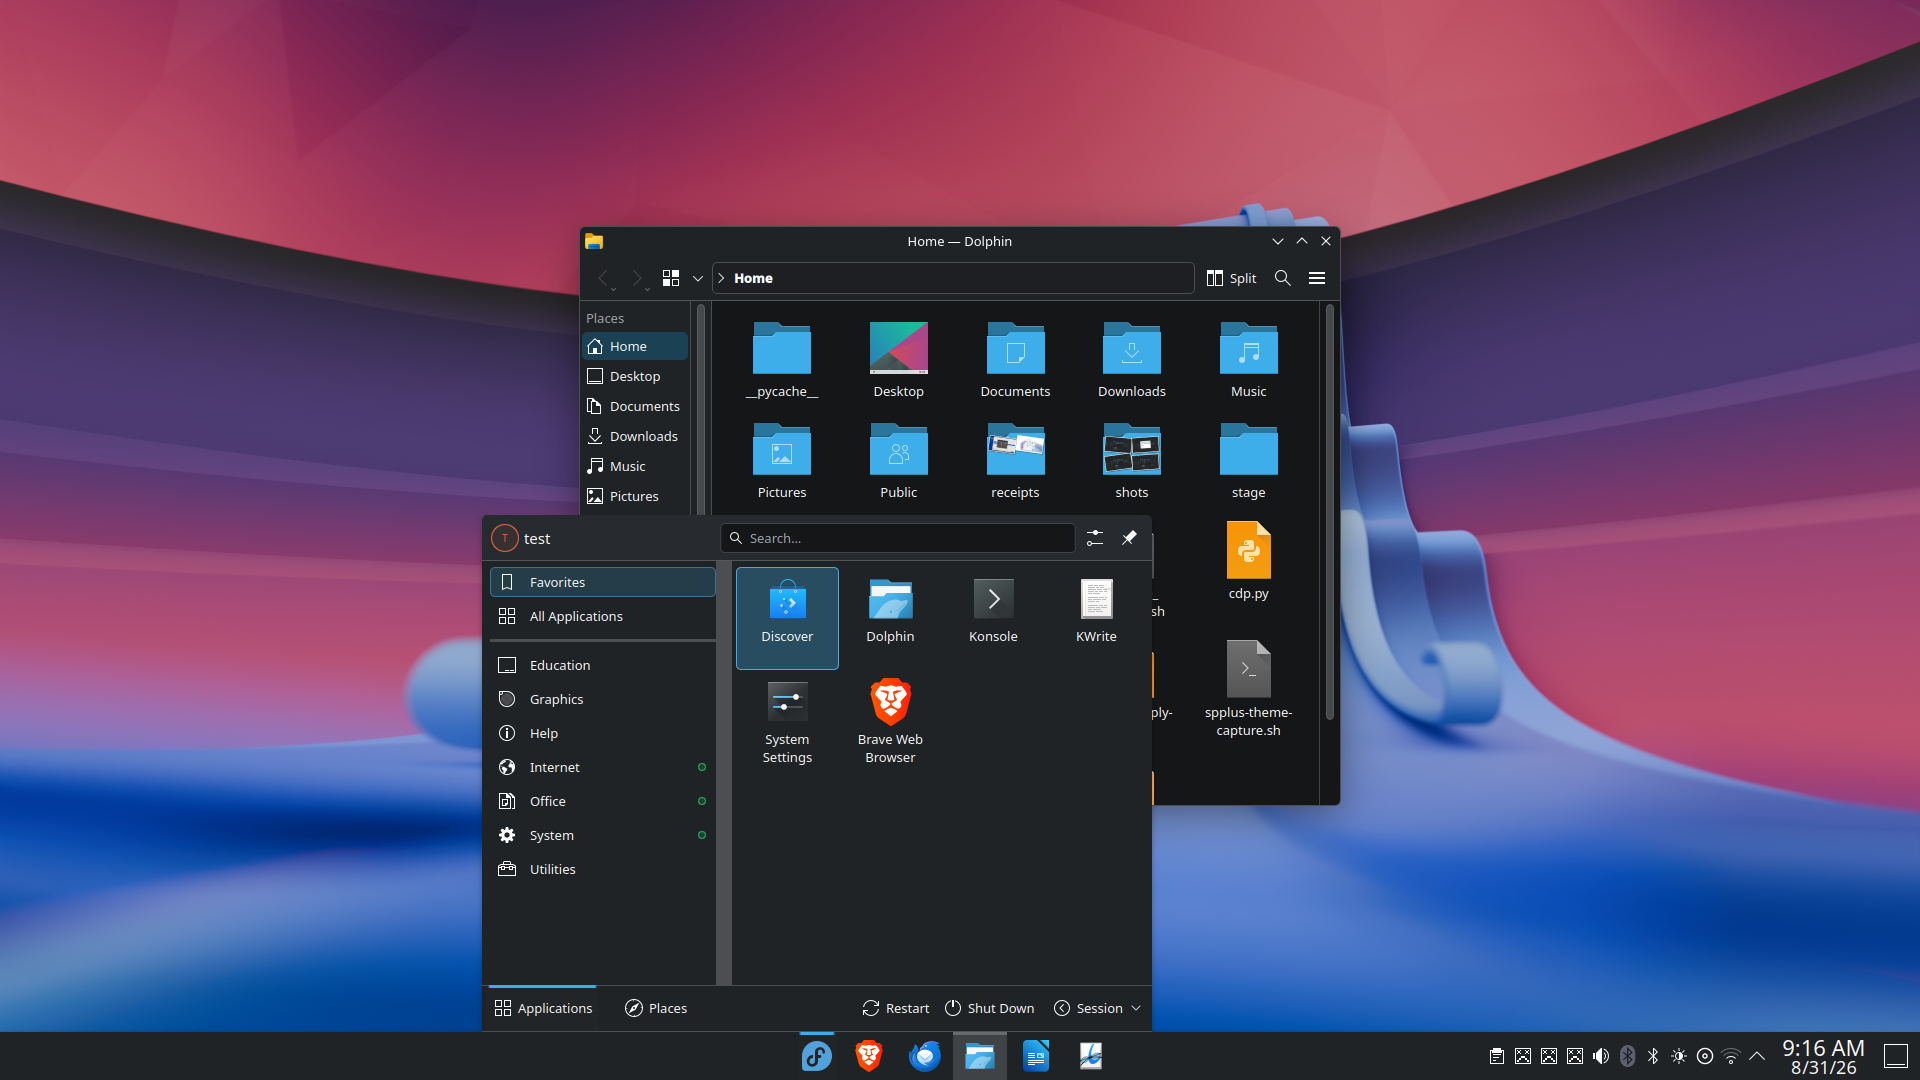
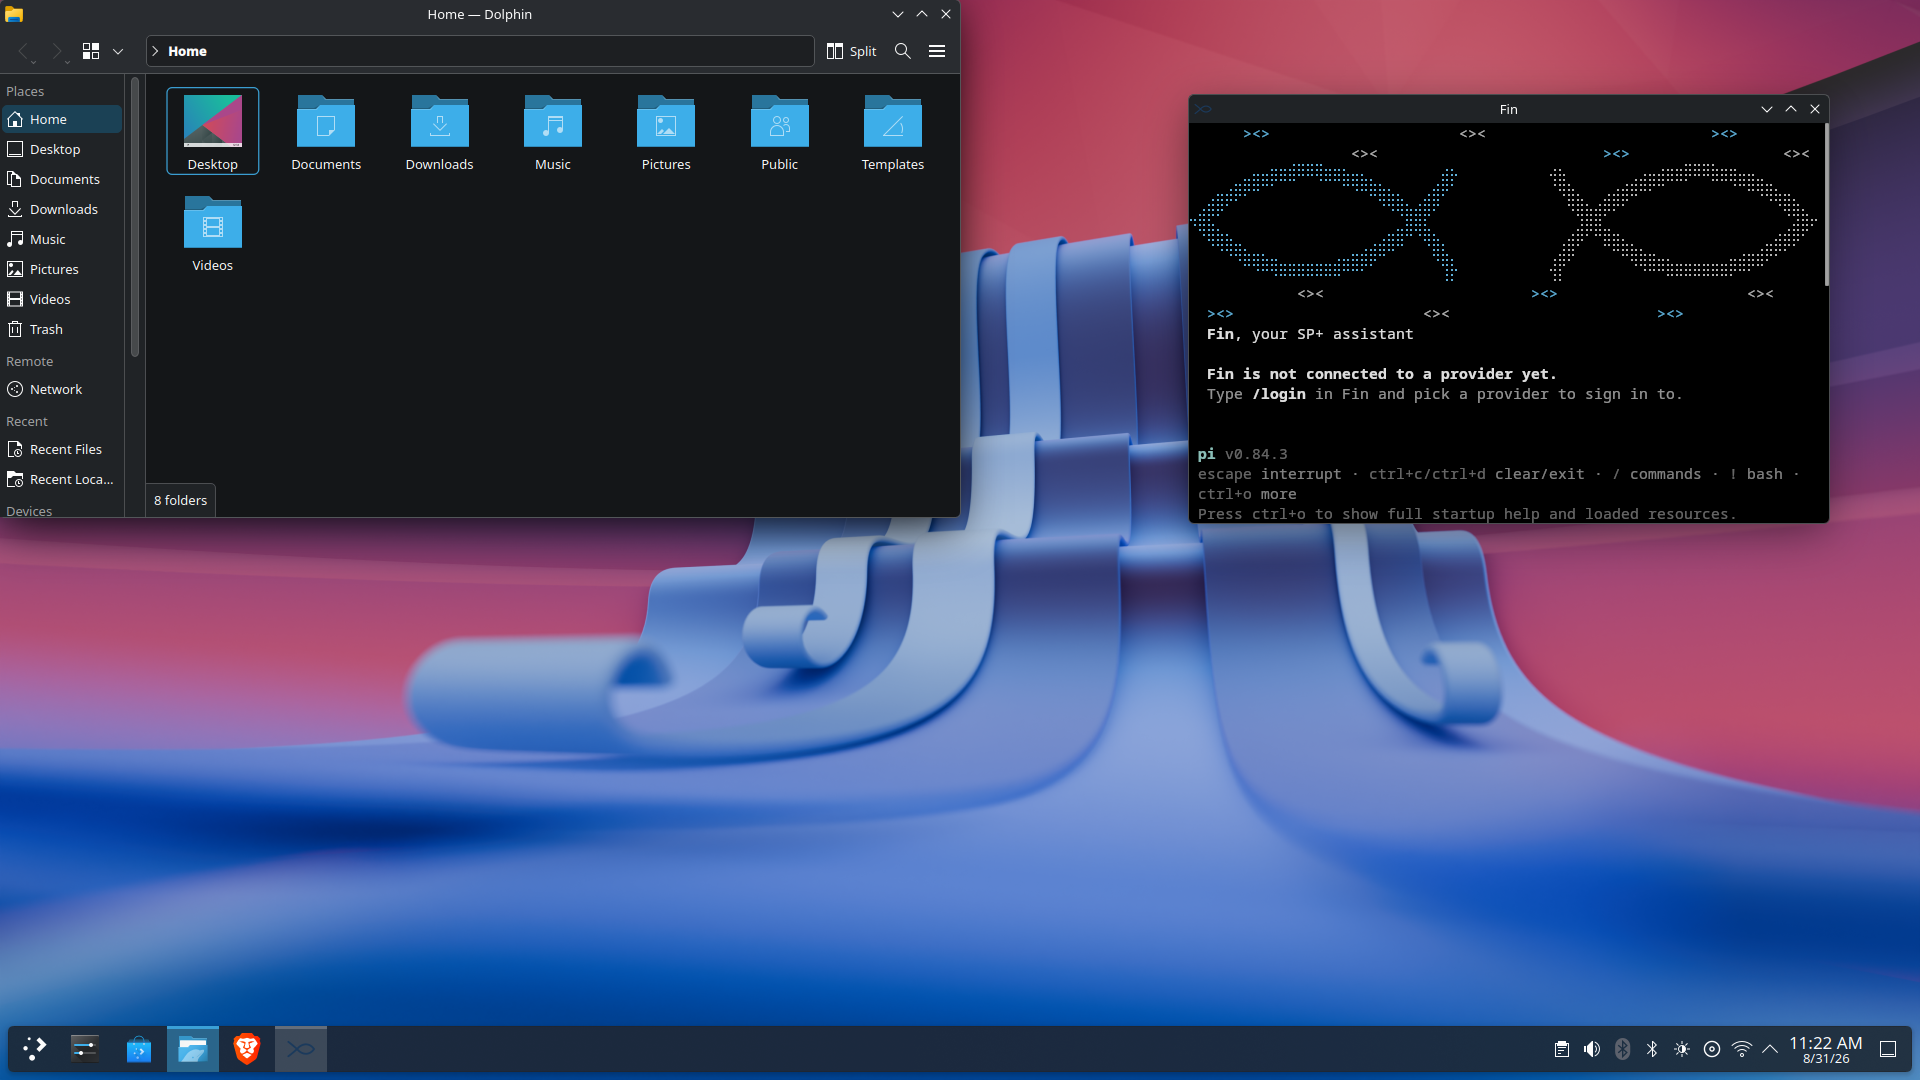
SP+ ship the eight staged theme previews captured on test46
Screenshots composed by Christopher on the Dell running test46, captured from
the installed helper against the installed packages. Records in the capture
contract that composition is his, not a script's.

Claude-Session: https://claude.ai/code/session_01JdV8AuVTUALuFjshMowtS2

diff --git a/projects/sp-plus/welcome/PREVIEW-CAPTURE-CONTRACT.md b/projects/sp-plus/welcome/PREVIEW-CAPTURE-CONTRACT.md
@@ -16,3 +16,20 @@ A valid capture must show the applied session at the Welcome preview size or lar
 The capture set must be produced on the Dell or an equivalent graphical Plasma 6.7 target. Do not manufacture a desktop image from swatches, an upstream screenshot, a package screenshot, or a different panel layout. The capture procedure must apply both Windows variants and every other offered theme, collect the helper JSONL correlation IDs, verify the files and hashes, then copy the resulting PNGs into this directory. The existing `--captures` Welcome mode is an HTML-rendering QC path, not this desktop-capture harness.
 
 Until all eight files exist, the source/build gate must fail and Welcome must keep APPLY disabled for a missing receipt.
+
+## Who composes the shot (added 2026-08-31)
+
+The eight preview images are composed BY CHRISTOPHER, not by a script. On 2026-08-31 an
+automated capture that placed Fin and the file manager by KWin scripting was rejected on
+sight: a script can put a window at fixed coordinates, but it cannot judge whether the
+result looks good, and these images are the advisor's first impression of the product.
+
+The working division is that the theme is applied and the machine prepared programmatically,
+Christopher arranges the windows, and the shot is then captured, named and verified
+programmatically. The composition itself is his.
+
+Frame: the file manager and Fin over the theme's wallpaper. Fin must be at its ichthys banner
+and greeting -- never a bare prompt -- so the assistant reads as part of the desktop rather
+than as a terminal. The Welcome app must not appear; it looks the same under every theme.
+The home folder must show only the advisor's ordinary folders, with no development files in
+view.
